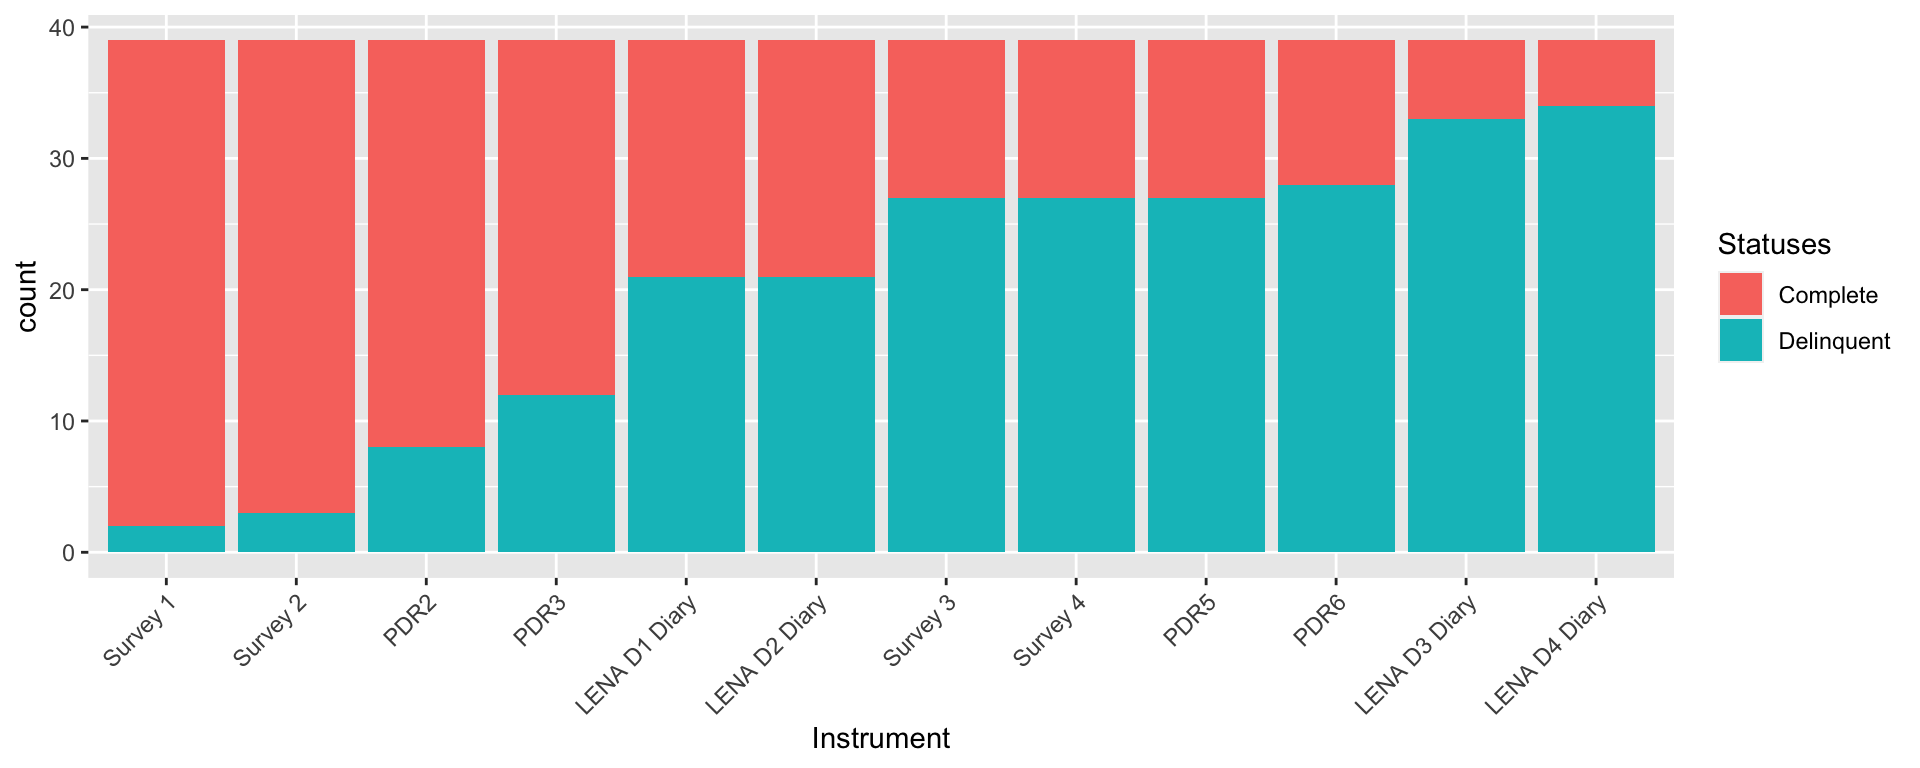
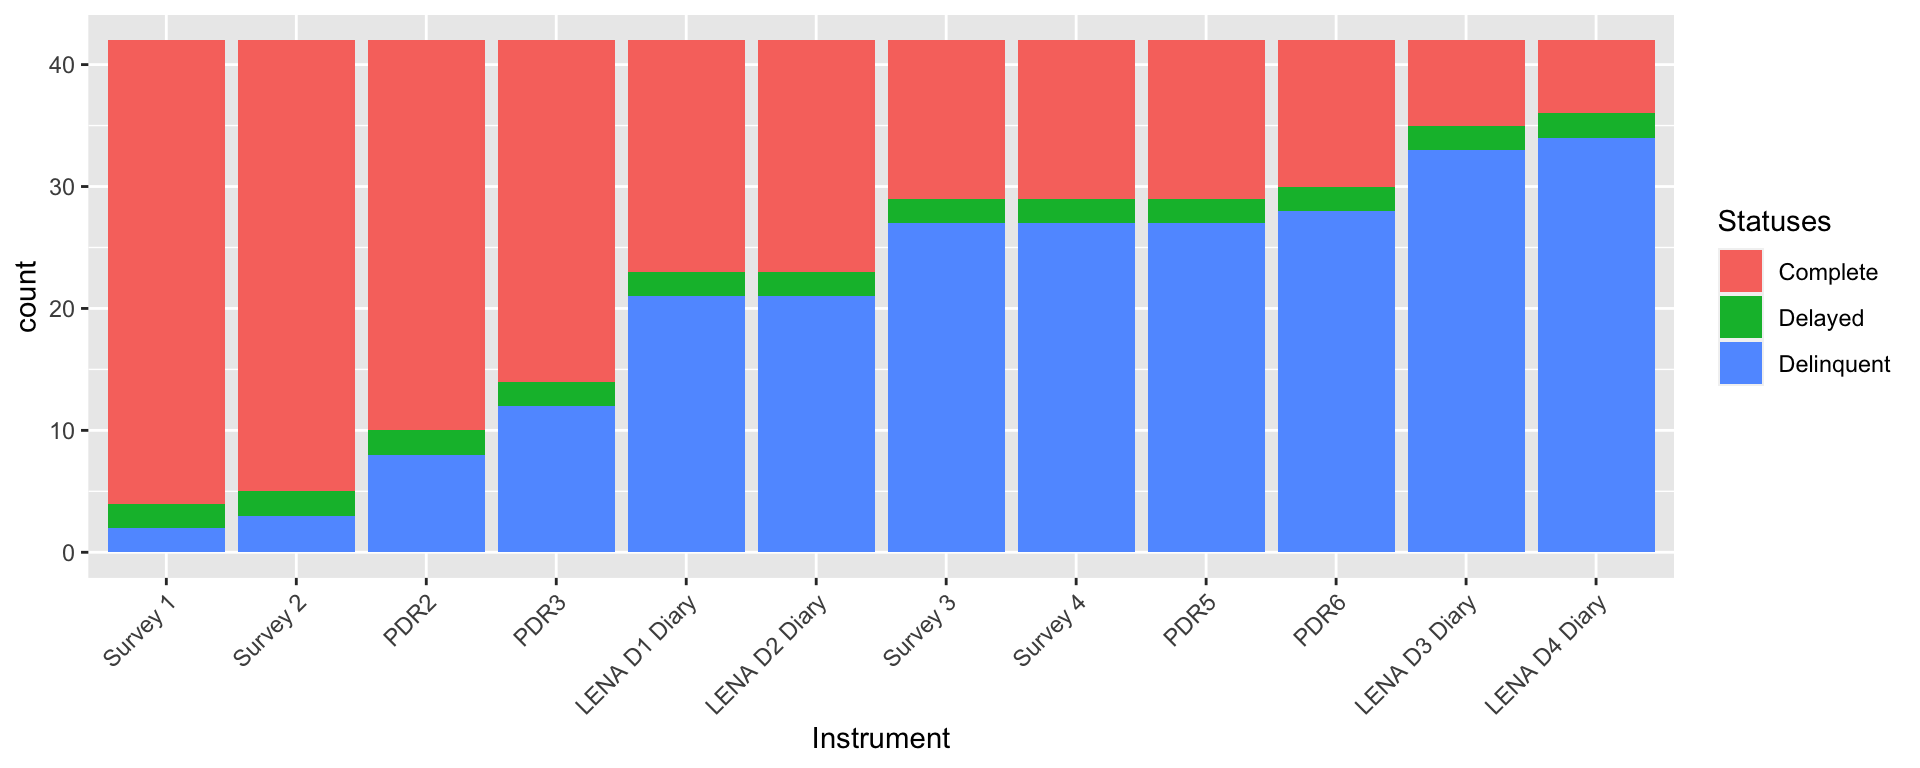
Add consent completion status and delay

diff --git a/_site/enrollment.html b/_site/enrollment.html
@@ -1015,6 +1015,9 @@ This chart shows the number of participants complete with each survey instrument
 Complete
 </th>
 <th style="text-align:right;">
+Delayed
+</th>
+<th style="text-align:right;">
 Delinquent
 </th>
 </tr>
@@ -1025,7 +1028,10 @@ Delinquent
 Survey 1
 </td>
 <td style="text-align:right;">
-37
+38
+</td>
+<td style="text-align:right;">
+2
 </td>
 <td style="text-align:right;">
 2
@@ -1036,7 +1042,10 @@ Survey 1
 Survey 2
 </td>
 <td style="text-align:right;">
-36
+37
+</td>
+<td style="text-align:right;">
+2
 </td>
 <td style="text-align:right;">
 3
@@ -1047,7 +1056,10 @@ Survey 2
 PDR2
 </td>
 <td style="text-align:right;">
-31
+32
+</td>
+<td style="text-align:right;">
+2
 </td>
 <td style="text-align:right;">
 8
@@ -1058,7 +1070,10 @@ PDR2
 PDR3
 </td>
 <td style="text-align:right;">
-27
+28
+</td>
+<td style="text-align:right;">
+2
 </td>
 <td style="text-align:right;">
 12
@@ -1069,7 +1084,10 @@ PDR3
 LENA D1 Diary
 </td>
 <td style="text-align:right;">
-18
+19
+</td>
+<td style="text-align:right;">
+2
 </td>
 <td style="text-align:right;">
 21
@@ -1080,7 +1098,10 @@ LENA D1 Diary
 LENA D2 Diary
 </td>
 <td style="text-align:right;">
-18
+19
+</td>
+<td style="text-align:right;">
+2
 </td>
 <td style="text-align:right;">
 21
@@ -1091,7 +1112,10 @@ LENA D2 Diary
 Survey 3
 </td>
 <td style="text-align:right;">
-12
+13
+</td>
+<td style="text-align:right;">
+2
 </td>
 <td style="text-align:right;">
 27
@@ -1102,7 +1126,10 @@ Survey 3
 Survey 4
 </td>
 <td style="text-align:right;">
-12
+13
+</td>
+<td style="text-align:right;">
+2
 </td>
 <td style="text-align:right;">
 27
@@ -1113,7 +1140,10 @@ Survey 4
 PDR5
 </td>
 <td style="text-align:right;">
-12
+13
+</td>
+<td style="text-align:right;">
+2
 </td>
 <td style="text-align:right;">
 27
@@ -1124,7 +1154,10 @@ PDR5
 PDR6
 </td>
 <td style="text-align:right;">
-11
+12
+</td>
+<td style="text-align:right;">
+2
 </td>
 <td style="text-align:right;">
 28
@@ -1135,7 +1168,10 @@ PDR6
 LENA D3 Diary
 </td>
 <td style="text-align:right;">
-6
+7
+</td>
+<td style="text-align:right;">
+2
 </td>
 <td style="text-align:right;">
 33
@@ -1146,7 +1182,10 @@ LENA D3 Diary
 LENA D4 Diary
 </td>
 <td style="text-align:right;">
-5
+6
+</td>
+<td style="text-align:right;">
+2
 </td>
 <td style="text-align:right;">
 34
